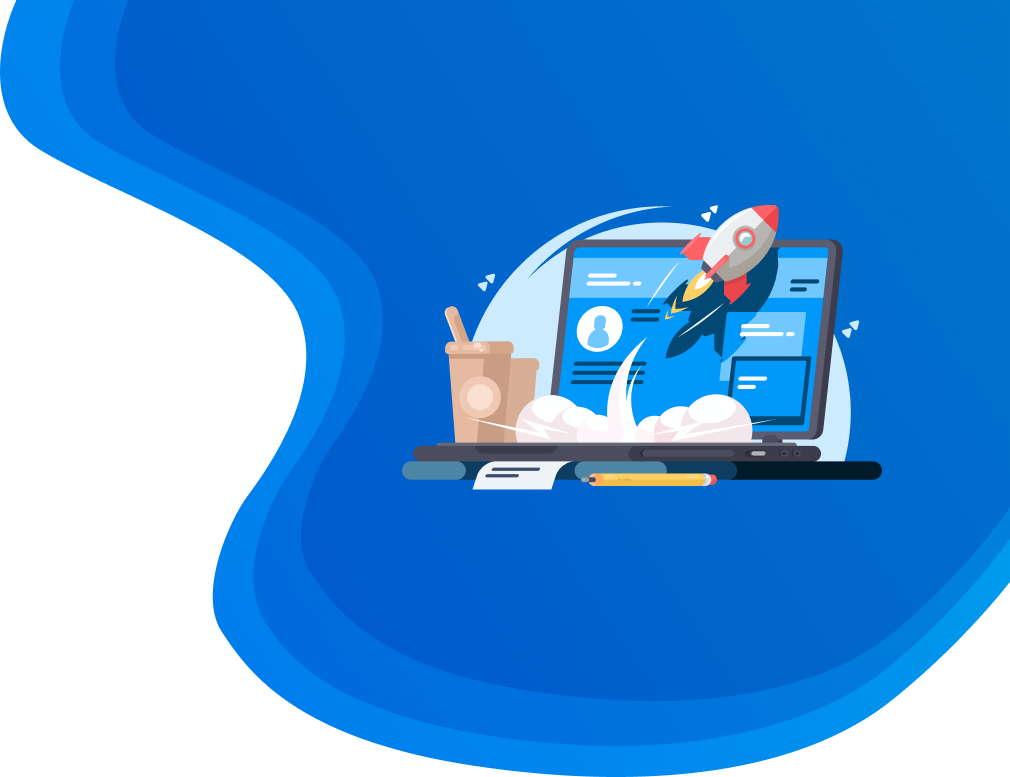
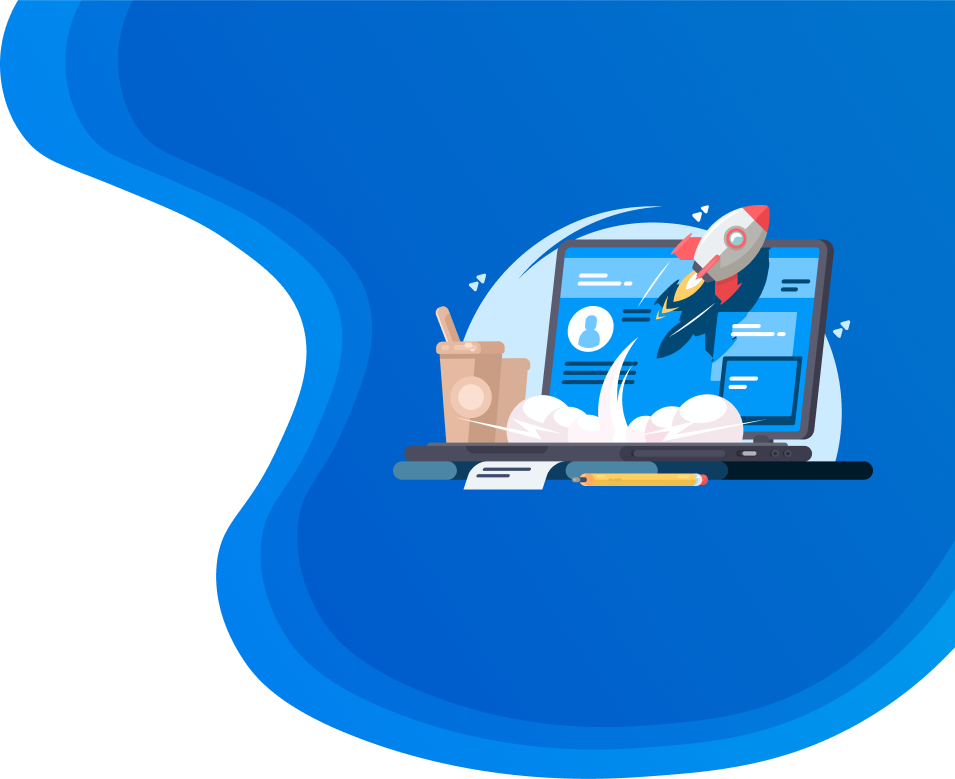
Adjusted hero image scaling

diff --git a/src/components/Hero/styled.jsx b/src/components/Hero/styled.jsx
@@ -3,7 +3,6 @@ import { Link } from "gatsby"
 
 export const HeroContainer = styled.section`
   position: relative;
-  // height: 100vh;
   width: 100%;
   max-height: 960px;
   background: #00c6ff;
@@ -85,7 +84,6 @@ export const HeroContent = styled.div`
 
 export const HeroImage = styled.div`
   width: 95%;
-  padding-bottom: 50px;
   position: absolute;
   top: 0;
   right: 0;
@@ -93,24 +91,17 @@ export const HeroImage = styled.div`
   overflow: hidden;
   display: none;
 
-  @media (min-width: 768px) {
-    padding-bottom: 0;
-    display: block;
-  }
-
-  img {
-    width: 100%;
-    max-width: 800px;
-    max-height: 600px;
-    float: right;
-  }
-
   @media (min-width: 640px) {
     width: 75%;
   }
 
   @media (min-width: 768px) {
     width: 65%;
+    display: block;
+  }
+
+  @media (min-width: 1280px) {
+    top: -100px;
   }
 `
 

diff --git a/src/pages/index.js b/src/pages/index.js
@@ -256,7 +256,7 @@ query {
   }
   heroImage: file(relativePath: { eq: "rocket-illustration.png" }) {
     childImageSharp {
-      fluid(maxWidth: 1000) {
+      fluid(maxWidth: 1200) {
         ...GatsbyImageSharpFluid
       }
     }
